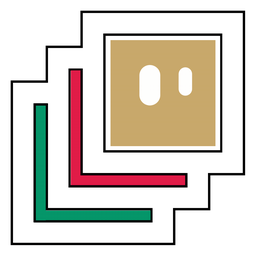
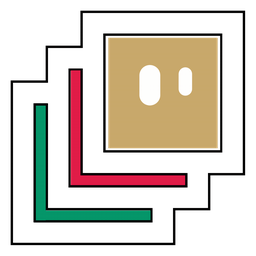
Gif completo con freeze final transparente

Changed region(s): [[0.4062, 0.125, 0.875, 0.5938]]

diff --git a/frontend/src/pages/Login.tsx b/frontend/src/pages/Login.tsx
@@ -3,7 +3,8 @@ import { Link, Navigate, useLocation, useNavigate } from 'react-router-dom'
 import { useAuth } from '../lib/auth'
 import { Spinner, Alert } from '../components/ui'
 
-// El gif dura ~4.5s: a los ~2s fundido cruzado al frame congelado.
+// El gif construye el logo (~4.5s): al terminar, fundido cruzado al frame
+// final congelado (transparente, sin brincos). Sin bucles ni SVG.
 // Sin bucles; respeta movimiento reducido (fijo directo).
 function LogoAnimado() {
   const [fase, setFase] = useState<'gif' | 'cierre' | 'fijo'>(() =>
@@ -11,8 +12,8 @@ function LogoAnimado() {
   )
   useEffect(() => {
     if (fase !== 'gif') return
-    const sale = setTimeout(() => setFase('cierre'), 2000)
-    const fija = setTimeout(() => setFase('fijo'), 2400)
+    const sale = setTimeout(() => setFase('cierre'), 4500)
+    const fija = setTimeout(() => setFase('fijo'), 4900)
     return () => { clearTimeout(sale); clearTimeout(fija) }
   }, [fase])
   if (fase === 'fijo') {
